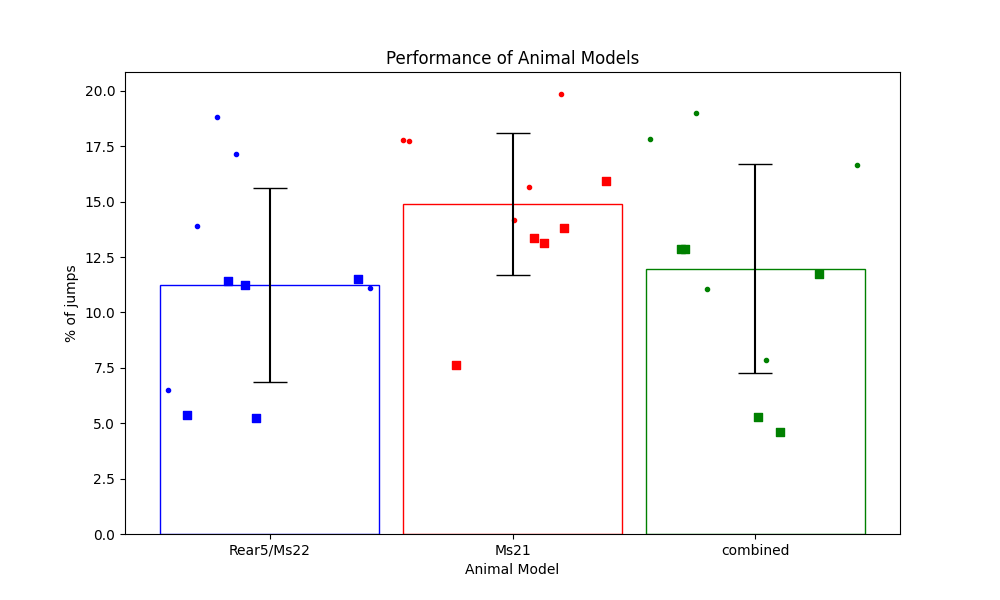
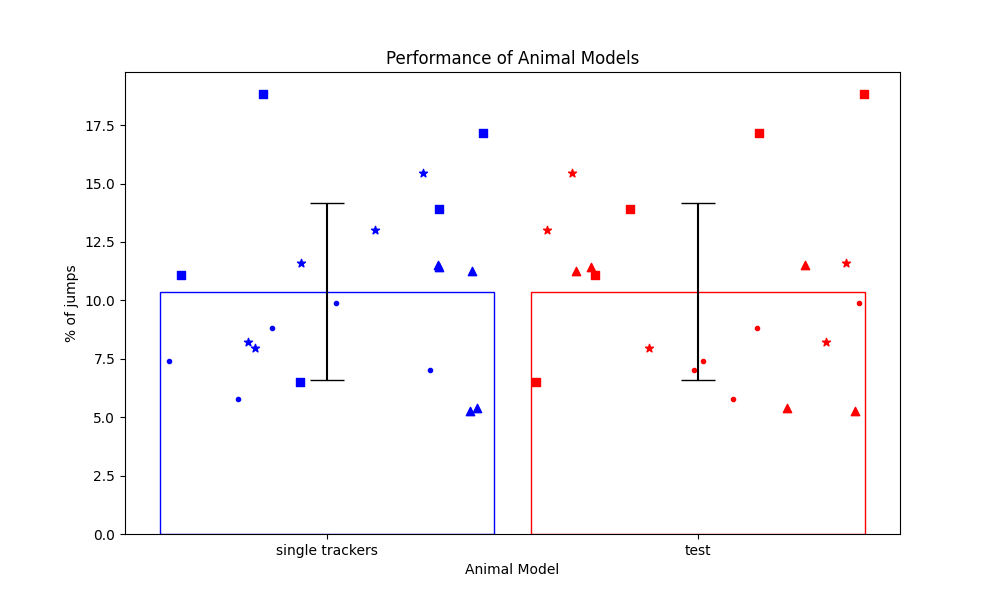
DLC udpate

diff --git a/DeepLabCut/DLC_jump_analysis/all_trackers/jump_analysis.py b/DeepLabCut/DLC_jump_analysis/all_trackers/jump_analysis.py
@@ -5,8 +5,6 @@ from pathlib import Path
 import numpy as np
 import os
 
-
-
 full_path_directory = "C:/Users/7teal/Coding Projects/Undergrad-Projects/DeepLabCut/DLC_jump_analysis/all_trackers/"
 nose_directory = "csv_files"
 rump_directory = "csv_rump_files"
@@ -32,18 +30,19 @@ def main(full_path, relative_path, fname):
 
     combined_new_df_values = dataframes_list[0]
     Ms21_new_df_values = dataframes_list[1]
-    #Order of single trackers: Ms22, RC1, Rear5
-    Ms22_RC1_Rear5_new_df_values = dataframes_list[2]
-    print(Ms22_RC1_Rear5_new_df_values)
+    #Order of single trackers: Ms21, Ms22, RC1, Rear5
+    single_trackers_df = dataframes_list[2]
     #RC1_new_df_values = dataframes_list[3]
     #AVG THE VALUES FROM 4 RATS
   
 
     w = .9 # bar width
-    x = [1, 2, 3] # x-coordinates of your bars
-    colors = ['blue', 'red', 'green']  # corresponding colors
-    #y = Ms21_df_values, Ms21_new_df_values, Ms22_Rear5_df_values, Ms22_Rear5_new_df_values, combined_df_values, combined_new_df_values
-    y = Ms22_RC1_Rear5_new_df_values, Ms21_new_df_values, combined_new_df_values
+    #x = [1, 2, 3] # x-coordinates of your bars
+    x = [1, 2]
+    #colors = ['blue', 'red', 'green']  # corresponding colors
+    colors = ['blue','red']
+    #y = Ms22_RC1_Rear5_new_df_values, Ms21_new_df_values, combined_new_df_values
+    y = single_trackers_df, single_trackers_df
 
     fig, ax = plt.subplots()
     ax.bar(x,
@@ -51,7 +50,8 @@ def main(full_path, relative_path, fname):
            yerr=[np.std(yi) for yi in y],    # error bars
            capsize=12, # error bar cap width in points
            width=w,    # bar width
-           tick_label=["Rear5/Ms22", "Ms21", "combined"],#"RC1"],
+           #tick_label=["Rear5/Ms22", "Ms21", "combined"],#"RC1"],
+           tick_label=['single trackers', 'test'],
            color=(0,0,0,0),  # face color transparent
            edgecolor=colors,
          #ecolor=colors,    # error bar colors; setting this raises an error for whatever reason.
@@ -60,10 +60,11 @@ def main(full_path, relative_path, fname):
     for i in range(len(x)):
         #distribute scatter randomly across whole width of bar
         a = y[i]
-        ax.scatter(x[i] + np.random.random(a[0:5].size) * w - w / 2, a[0:5], color=colors[i], marker='.')
-        ax.scatter(x[i] + np.random.random(a[5:10].size) * w - w / 2, a[5:10], color=colors[i], marker = "s")
-        ax.scatter(x[i] + np.random.random(a[5:10].size) * w - w / 2, a[10:15], color=colors[i], marker = "t")
-        ax.scatter(x[i] + np.random.random(a[5:10].size) * w - w / 2, a[15:20], color=colors[i], marker = "|")
+        print(y)
+        ax.scatter(x[i] + np.random.random(a[0:5].size) * w - w / 2, a[0:5], color=colors[i], marker='.') #circle marker = Ms21
+        ax.scatter(x[i] + np.random.random(a[5:10].size) * w - w / 2, a[5:10], color=colors[i], marker = "s") #square marker = Ms22
+        ax.scatter(x[i] + np.random.random(a[10:15].size) * w - w / 2, a[10:15], color=colors[i], marker = "*") #star marker = RC1
+        ax.scatter(x[i] + np.random.random(a[15:20].size) * w - w / 2, a[15:20], color=colors[i], marker = "^") #triangle marker = Rear5
 
     # box = ax.get_position()
     # ax.set_position([box.x0, box.y0 + box.height * 0.1,
